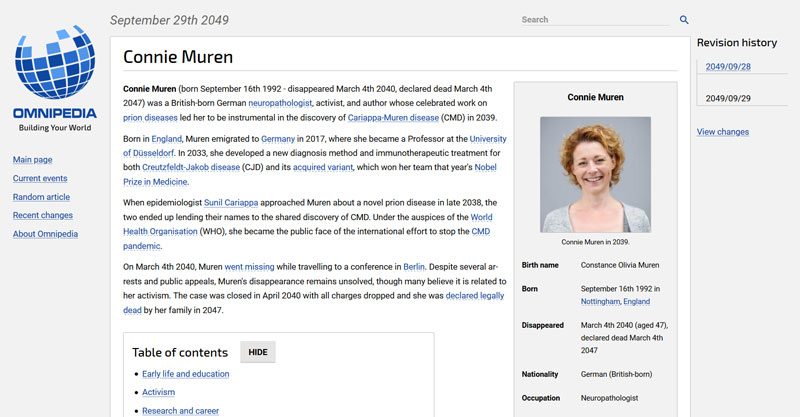
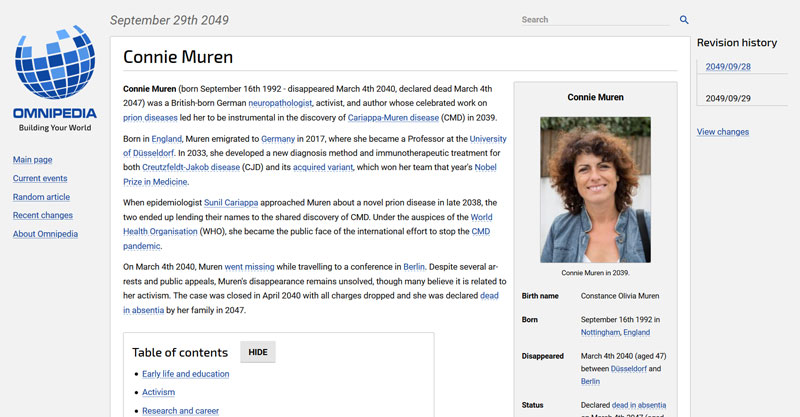
Updated Connie Muren screenshot with new photo.

Changed region(s): [[0.5625, 0.2806, 0.8438, 1.0], [0.1562, 0.717, 0.3125, 0.7794]]

diff --git a/public/index.htm b/public/index.htm
@@ -109,10 +109,10 @@
             <h3 class="features-section__heading" id="features-heading-section2" aria-label="A world that builds over time">A world that builds over time</h3>
 
             <div class="features-section__media" id="features-media-section2" aria-labelledby="features-media-element-section2">
-              <a href="images/screenshots/2049-09-29_connie_muren.jpg?v=2" class="external-link ambientimpact-is-image-link ambientimpact-link-has-image" target="_blank" rel="noopener noreferrer" data-photoswipe-linked-width="1583" data-photoswipe-linked-height="825">
+              <a href="images/screenshots/2049-09-29_connie_muren.jpg?v=3" class="external-link ambientimpact-is-image-link ambientimpact-link-has-image" target="_blank" rel="noopener noreferrer" data-photoswipe-linked-width="1583" data-photoswipe-linked-height="825">
                 <div class="intrinsic-ratio" style="max-width: 800px" aria-labelledby="features-media2">
                   <div class="intrinsic-ratio__ratio" style="padding-top: 52.116235%; display: inline;">
-                    <img src="images/screenshots/2049-09-29_connie_muren_thumbnail.jpg?v=2" width="800" height="417" loading="lazy" alt="A screenshot of Omnipedia article on Connie Muren on September 29th, 2049." id="features-media-element-section2" class="intrinsic-ratio__content intrinsic-ratio__content--image" />
+                    <img src="images/screenshots/2049-09-29_connie_muren_thumbnail.jpg?v=3" width="800" height="417" loading="lazy" alt="A screenshot of Omnipedia article on Connie Muren on September 29th, 2049." id="features-media-element-section2" class="intrinsic-ratio__content intrinsic-ratio__content--image" />
                   </div>
                 </div>
               </a>
